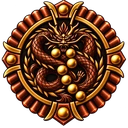
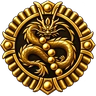
Icône des ryō en petit : version or, plus lisible
Claude-Session: https://claude.ai/code/session_01KMxgz3a7L8x3NPii2Ytgz6

diff --git a/public/index.html b/public/index.html
@@ -6210,7 +6210,7 @@ const CHANGELOG=[
   en:["First online release: solo vs AI, online versus, tutorial, FR / EN / IT"],
   it:["Prima versione online: solo contro l'IA, versus online, tutorial, FR / EN / IT"]}
 ];
-const APP_VERSION=CHANGELOG[0].v, APP_BUILD="20261021103010";   // APP_BUILD : écrit par tools/export_public.py à chaque mise en ligne (plusieurs par version possibles)
+const APP_VERSION=CHANGELOG[0].v, APP_BUILD="20261021104720";   // APP_BUILD : écrit par tools/export_public.py à chaque mise en ligne (plusieurs par version possibles)
 function renderChangelog(sel=[]){
   try{ localStorage.setItem("boc-seen-ver",APP_VERSION); }catch(e){}
   const fmt=d=>{ try{ return new Date(d+"T12:00:00").toLocaleDateString(LANG==="en"?"en-GB":LANG==="it"?"it-IT":LANG==="ja"?"ja-JP":"fr-BE",{day:"numeric",month:"long",year:"numeric"}); }catch(e){ return d; } };

diff --git a/public/sw.js b/public/sw.js
@@ -1,6 +1,6 @@
 // Battle of the Century : cache hors ligne des images, sons et polices (la page et l'API restent toujours à jour)
 const VERSION = "0.99.98";
-const ASTAMP = "db5d088fac";   // empreinte des images / sons (écrite par tools/export_public.py)
+const ASTAMP = "e77cdf97cc";   // empreinte des images / sons (écrite par tools/export_public.py)
 const CACHE = "boc2-" + VERSION + "-" + (typeof ASTAMP === "string" ? ASTAMP : "");   // boc2 : on repart de zéro (anciennes images restées dans le cache du navigateur)
 const PRECACHE = ["./", "assets/icon-192.png", "assets/bg-city.webp", "assets/bg-ruins.webp"];
 
